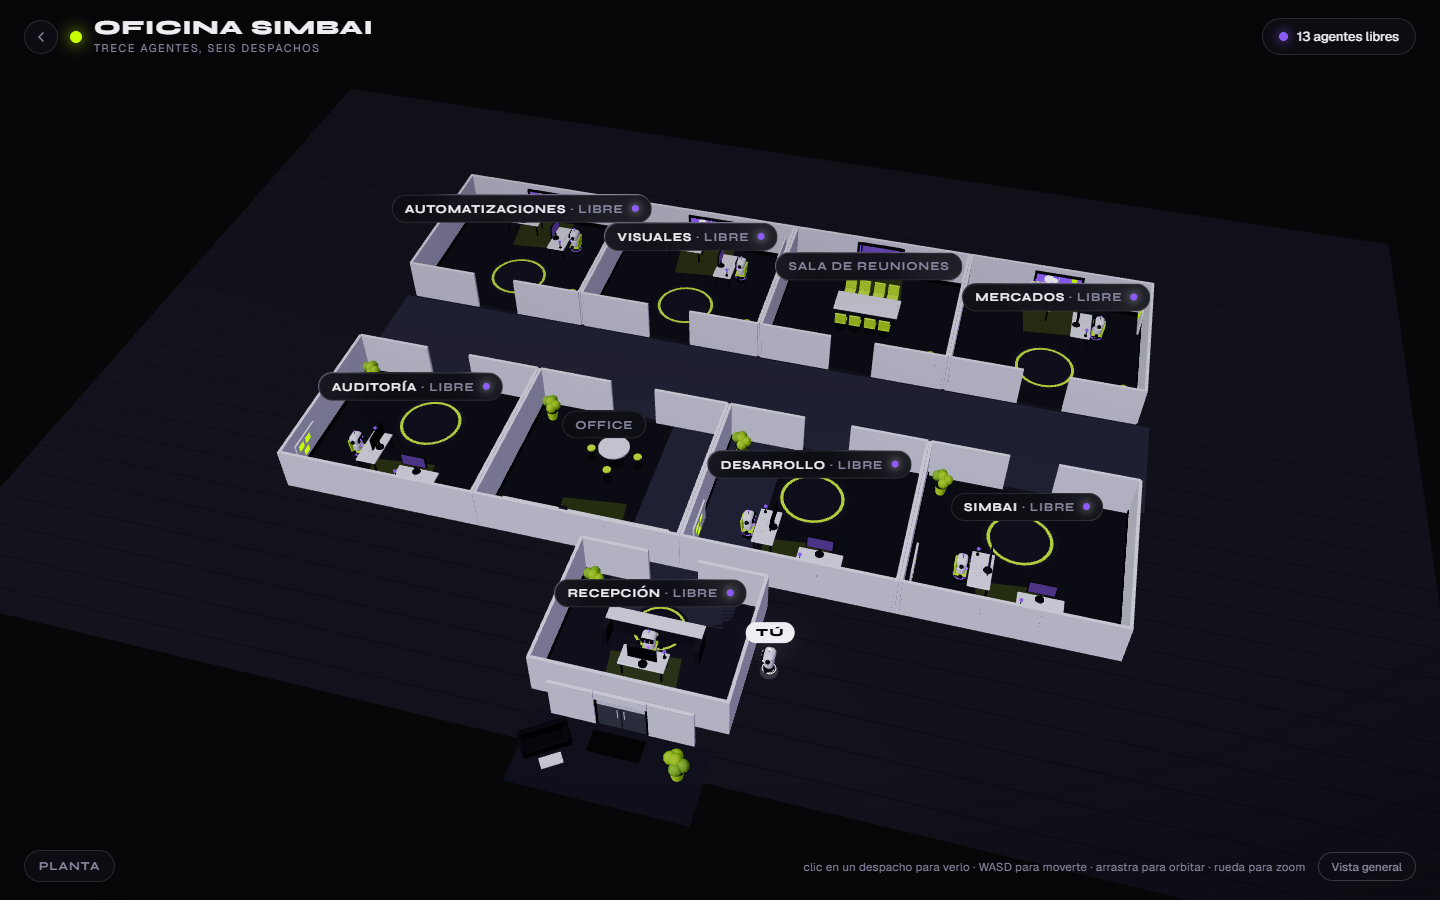
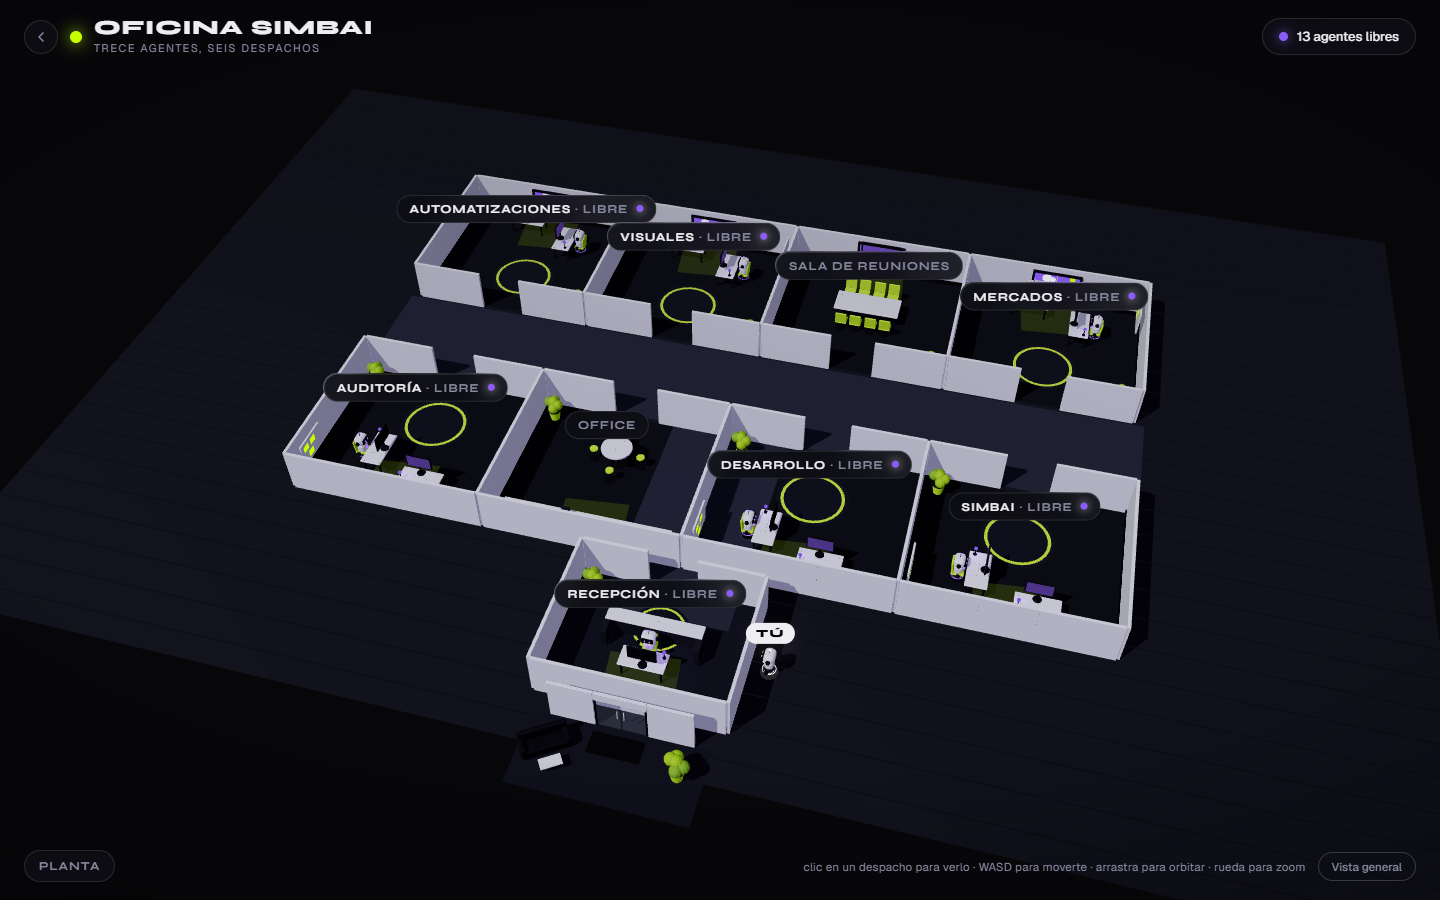
Las paredes ya no se cruzan entre si
Tres cruces distintos, medidos proyectando las cajas de las 39 paredes: de 45 solapes a 0.

- Medianeras duplicadas: cada sala levantaba sus dos laterales y el paso entre salas era ANCHO + GROSOR, asi que las paredes contiguas caian en el mismo sitio. Ahora la medianera es una sola pared compartida y el paso es ANCHO exacto.
- Esquinas: la pared del fondo media W + t y sobresalia medio grosor por cada lado, cruzandose con las laterales. Ahora va entre ellas (W - t), igual que las hojas de la fachada.
- Fila sur: va rotada 180 grados, asi que su pared local derecha cae a la izquierda en el mundo. Ahi la omite la primera sala, no la ultima; con la regla anterior Desarrollo y SIMBAI compartian una medianera completa.

diff --git a/oficina-simbai/oficina.html b/oficina-simbai/oficina.html
@@ -672,15 +672,19 @@ function sala(cfg, esRecepcion = false){
   suelo.rotation.x = -Math.PI / 2; suelo.position.y = 0.004; suelo.receiveShadow = true;
   g.add(suelo);
 
-  pared(g, W + t, t, 0, -D / 2);
+  // la trasera va entre las laterales, no por encima: con W + t se cruzaba con ellas en las esquinas
+  pared(g, W - t, t, 0, -D / 2);
+  // Solo la lateral izquierda, salvo en la última sala de la fila: entre dos salas contiguas
+  // la medianera es una sola pared compartida. Poniendo las dos, se cruzaban en el mismo sitio.
   pared(g, t, D, -W / 2, 0);
-  pared(g, t, D, W / 2, 0);
-  const hoja = (W - PUERTA) / 2;
+  if (cfg.cierraFila !== false) pared(g, t, D, W / 2, 0);
+  // las hojas de la fachada también se quedan dentro de las laterales
+  const hoja = (W - t - PUERTA) / 2;
   pared(g, hoja, t, -(PUERTA + hoja) / 2, D / 2);
   pared(g, hoja, t, (PUERTA + hoja) / 2, D / 2);
   rodapie(g, W - t, 0.06, 0, -D / 2 + t / 2 + 0.03);
   rodapie(g, 0.06, D - t, -W / 2 + t / 2 + 0.03, 0);
-  rodapie(g, 0.06, D - t, W / 2 - t / 2 - 0.03, 0);
+  if (cfg.cierraFila !== false) rodapie(g, 0.06, D - t, W / 2 - t / 2 - 0.03, 0);
 
   ventana(g, 0, -D / 2 + t / 2 + 0.01);
 
@@ -791,15 +795,19 @@ function construye(){
   for (const d of DESPACHOS) if (!usados.has(d.id)) filas[filas[0].length <= filas[1].length ? 0 : 1].push(d);
   filas.forEach((fila, lado) => {
     // cada fila se centra sobre el pasillo, así la que tiene menos salas no descuadra la planta
-    const desplazamiento = (Math.max(...filas.map(f => f.length)) - fila.length) * (ANCHO + GROSOR) / 2;
+    const desplazamiento = (Math.max(...filas.map(f => f.length)) - fila.length) * ANCHO / 2;
     fila.forEach((cfg, i) => {
+      // Una sola pared por medianera. La fila sur va rotada 180°, así que su pared local
+      // derecha cae a la izquierda en el mundo: ahí la omite la primera sala, no la última.
+      cfg.cierraFila = lado ? i === 0 : i === fila.length - 1;
       const s = sala(cfg);
-      s.position.set(desplazamiento + i * (ANCHO + GROSOR) + ANCHO / 2, 0, (lado ? 1 : -1) * (PASILLO / 2 + FONDO / 2));
+      // paso = ANCHO exacto: cada sala ocupa de -W/2 a +W/2 y las medianeras coinciden
+      s.position.set(desplazamiento + i * ANCHO + ANCHO / 2, 0, (lado ? 1 : -1) * (PASILLO / 2 + FONDO / 2));
       if (lado) s.rotation.y = Math.PI;
       edificio.add(s);
     });
   });
-  const largo = Math.max(...filas.map(f => f.length)) * (ANCHO + GROSOR);
+  const largo = Math.max(...filas.map(f => f.length)) * ANCHO;
 
   // recepción al frente del pasillo, no en un extremo: así la planta no se alarga y es lo
   // primero que se ve al entrar
@@ -1311,7 +1319,7 @@ async function principal(){
   setInterval(() => { cargaModelos().catch(() => {}); cargaAgentes().then(() => actualiza(ultimoJson)).catch(() => {}); }, 30_000);
 
   if (Q.has('test')) window.__oficina = {
-    yo, puestos, salas, edificio, cam:camera.position, camara:camera, target:controls.target, maxDistance:controls.maxDistance, V3:THREE.Vector3,
+    yo, puestos, salas, edificio, Box3:THREE.Box3, cam:camera.position, camara:camera, target:controls.target, maxDistance:controls.maxDistance, V3:THREE.Vector3,
     recepcion: rec,
     mercados: salas.get('mercados').getWorldPosition(new THREE.Vector3()),
     estado: id => puestos.get(id)?.userData.estado,

diff --git a/packages/web/public/oficina.html b/packages/web/public/oficina.html
@@ -672,15 +672,19 @@ function sala(cfg, esRecepcion = false){
   suelo.rotation.x = -Math.PI / 2; suelo.position.y = 0.004; suelo.receiveShadow = true;
   g.add(suelo);
 
-  pared(g, W + t, t, 0, -D / 2);
+  // la trasera va entre las laterales, no por encima: con W + t se cruzaba con ellas en las esquinas
+  pared(g, W - t, t, 0, -D / 2);
+  // Solo la lateral izquierda, salvo en la última sala de la fila: entre dos salas contiguas
+  // la medianera es una sola pared compartida. Poniendo las dos, se cruzaban en el mismo sitio.
   pared(g, t, D, -W / 2, 0);
-  pared(g, t, D, W / 2, 0);
-  const hoja = (W - PUERTA) / 2;
+  if (cfg.cierraFila !== false) pared(g, t, D, W / 2, 0);
+  // las hojas de la fachada también se quedan dentro de las laterales
+  const hoja = (W - t - PUERTA) / 2;
   pared(g, hoja, t, -(PUERTA + hoja) / 2, D / 2);
   pared(g, hoja, t, (PUERTA + hoja) / 2, D / 2);
   rodapie(g, W - t, 0.06, 0, -D / 2 + t / 2 + 0.03);
   rodapie(g, 0.06, D - t, -W / 2 + t / 2 + 0.03, 0);
-  rodapie(g, 0.06, D - t, W / 2 - t / 2 - 0.03, 0);
+  if (cfg.cierraFila !== false) rodapie(g, 0.06, D - t, W / 2 - t / 2 - 0.03, 0);
 
   ventana(g, 0, -D / 2 + t / 2 + 0.01);
 
@@ -791,15 +795,19 @@ function construye(){
   for (const d of DESPACHOS) if (!usados.has(d.id)) filas[filas[0].length <= filas[1].length ? 0 : 1].push(d);
   filas.forEach((fila, lado) => {
     // cada fila se centra sobre el pasillo, así la que tiene menos salas no descuadra la planta
-    const desplazamiento = (Math.max(...filas.map(f => f.length)) - fila.length) * (ANCHO + GROSOR) / 2;
+    const desplazamiento = (Math.max(...filas.map(f => f.length)) - fila.length) * ANCHO / 2;
     fila.forEach((cfg, i) => {
+      // Una sola pared por medianera. La fila sur va rotada 180°, así que su pared local
+      // derecha cae a la izquierda en el mundo: ahí la omite la primera sala, no la última.
+      cfg.cierraFila = lado ? i === 0 : i === fila.length - 1;
       const s = sala(cfg);
-      s.position.set(desplazamiento + i * (ANCHO + GROSOR) + ANCHO / 2, 0, (lado ? 1 : -1) * (PASILLO / 2 + FONDO / 2));
+      // paso = ANCHO exacto: cada sala ocupa de -W/2 a +W/2 y las medianeras coinciden
+      s.position.set(desplazamiento + i * ANCHO + ANCHO / 2, 0, (lado ? 1 : -1) * (PASILLO / 2 + FONDO / 2));
       if (lado) s.rotation.y = Math.PI;
       edificio.add(s);
     });
   });
-  const largo = Math.max(...filas.map(f => f.length)) * (ANCHO + GROSOR);
+  const largo = Math.max(...filas.map(f => f.length)) * ANCHO;
 
   // recepción al frente del pasillo, no en un extremo: así la planta no se alarga y es lo
   // primero que se ve al entrar
@@ -1311,7 +1319,7 @@ async function principal(){
   setInterval(() => { cargaModelos().catch(() => {}); cargaAgentes().then(() => actualiza(ultimoJson)).catch(() => {}); }, 30_000);
 
   if (Q.has('test')) window.__oficina = {
-    yo, puestos, salas, edificio, cam:camera.position, camara:camera, target:controls.target, maxDistance:controls.maxDistance, V3:THREE.Vector3,
+    yo, puestos, salas, edificio, Box3:THREE.Box3, cam:camera.position, camara:camera, target:controls.target, maxDistance:controls.maxDistance, V3:THREE.Vector3,
     recepcion: rec,
     mercados: salas.get('mercados').getWorldPosition(new THREE.Vector3()),
     estado: id => puestos.get(id)?.userData.estado,
